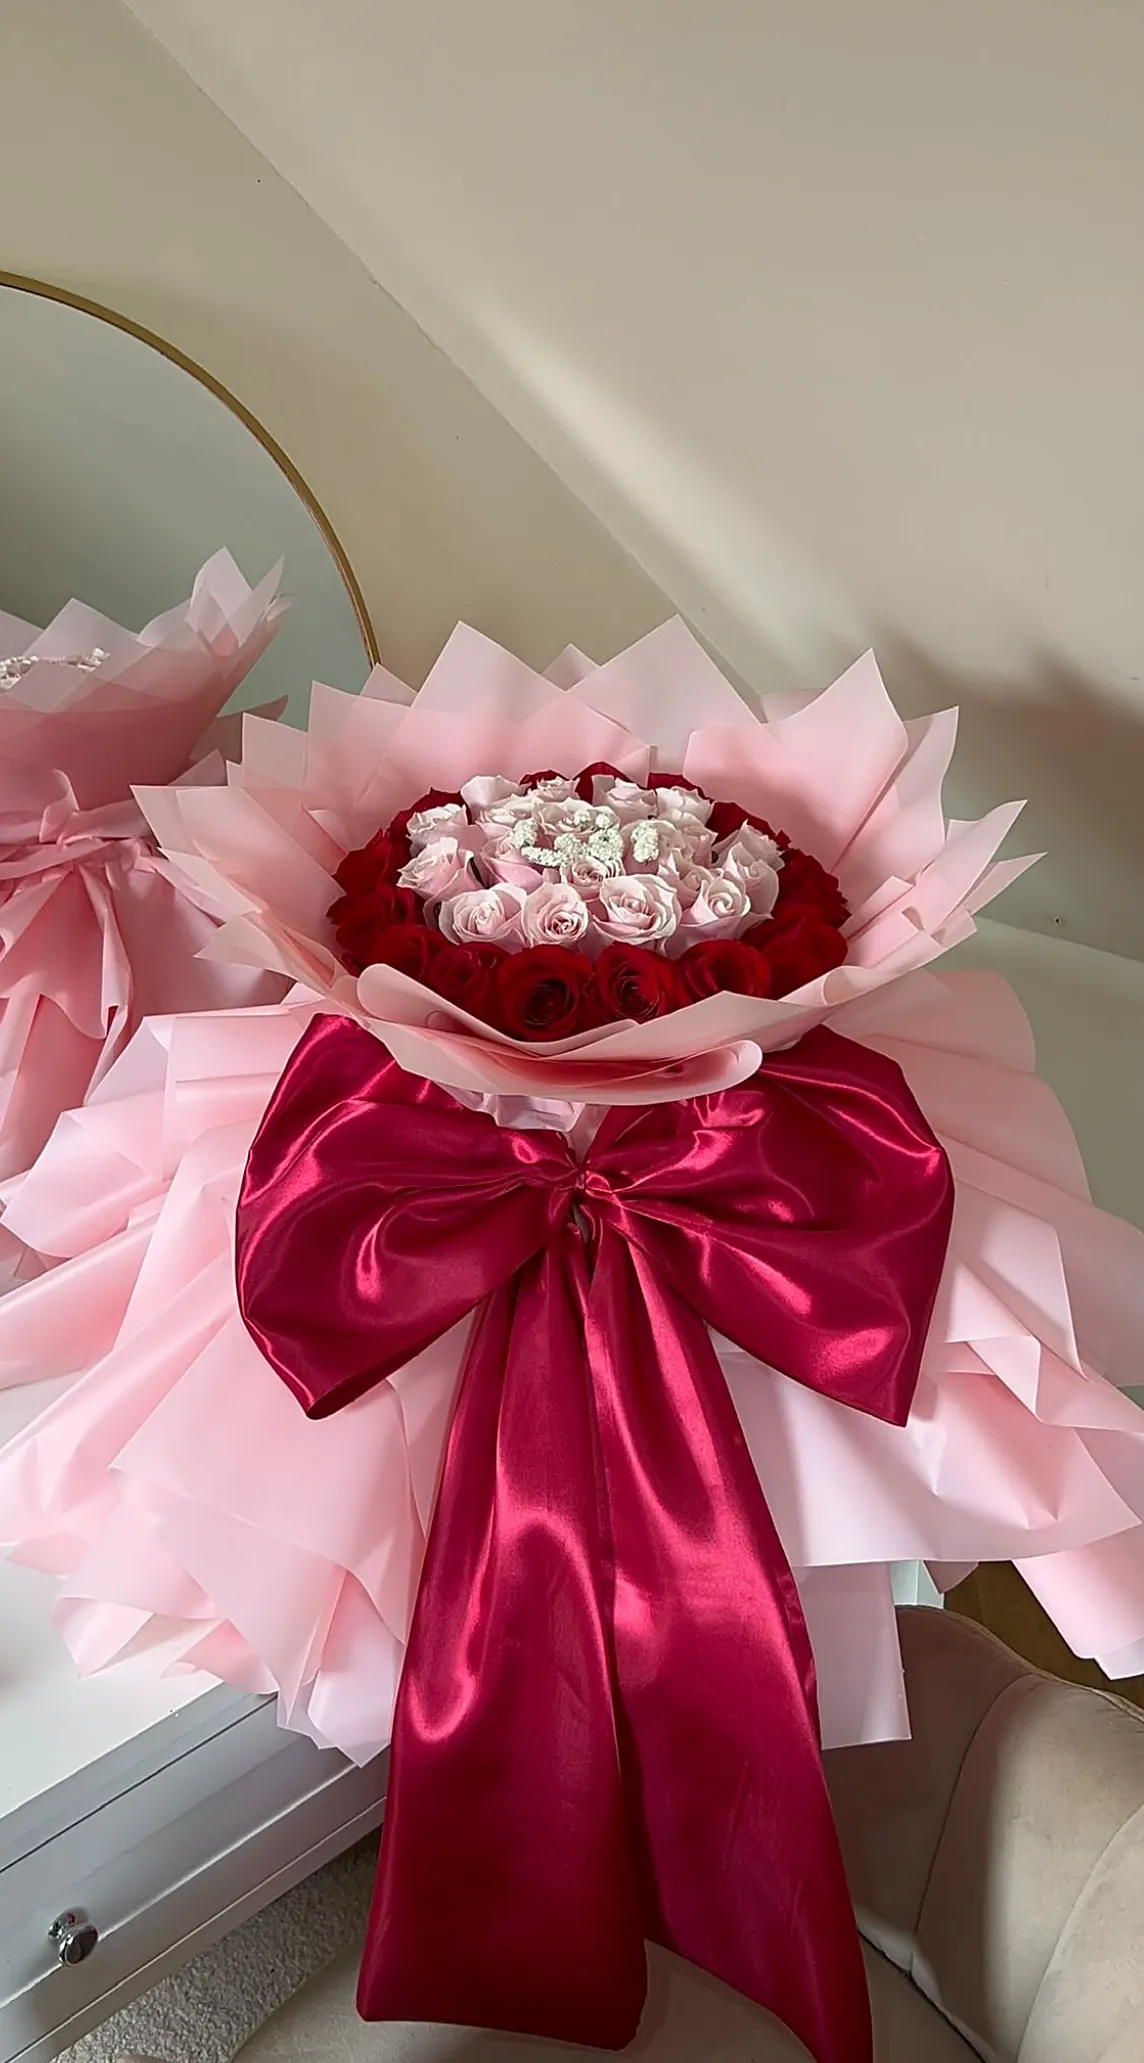
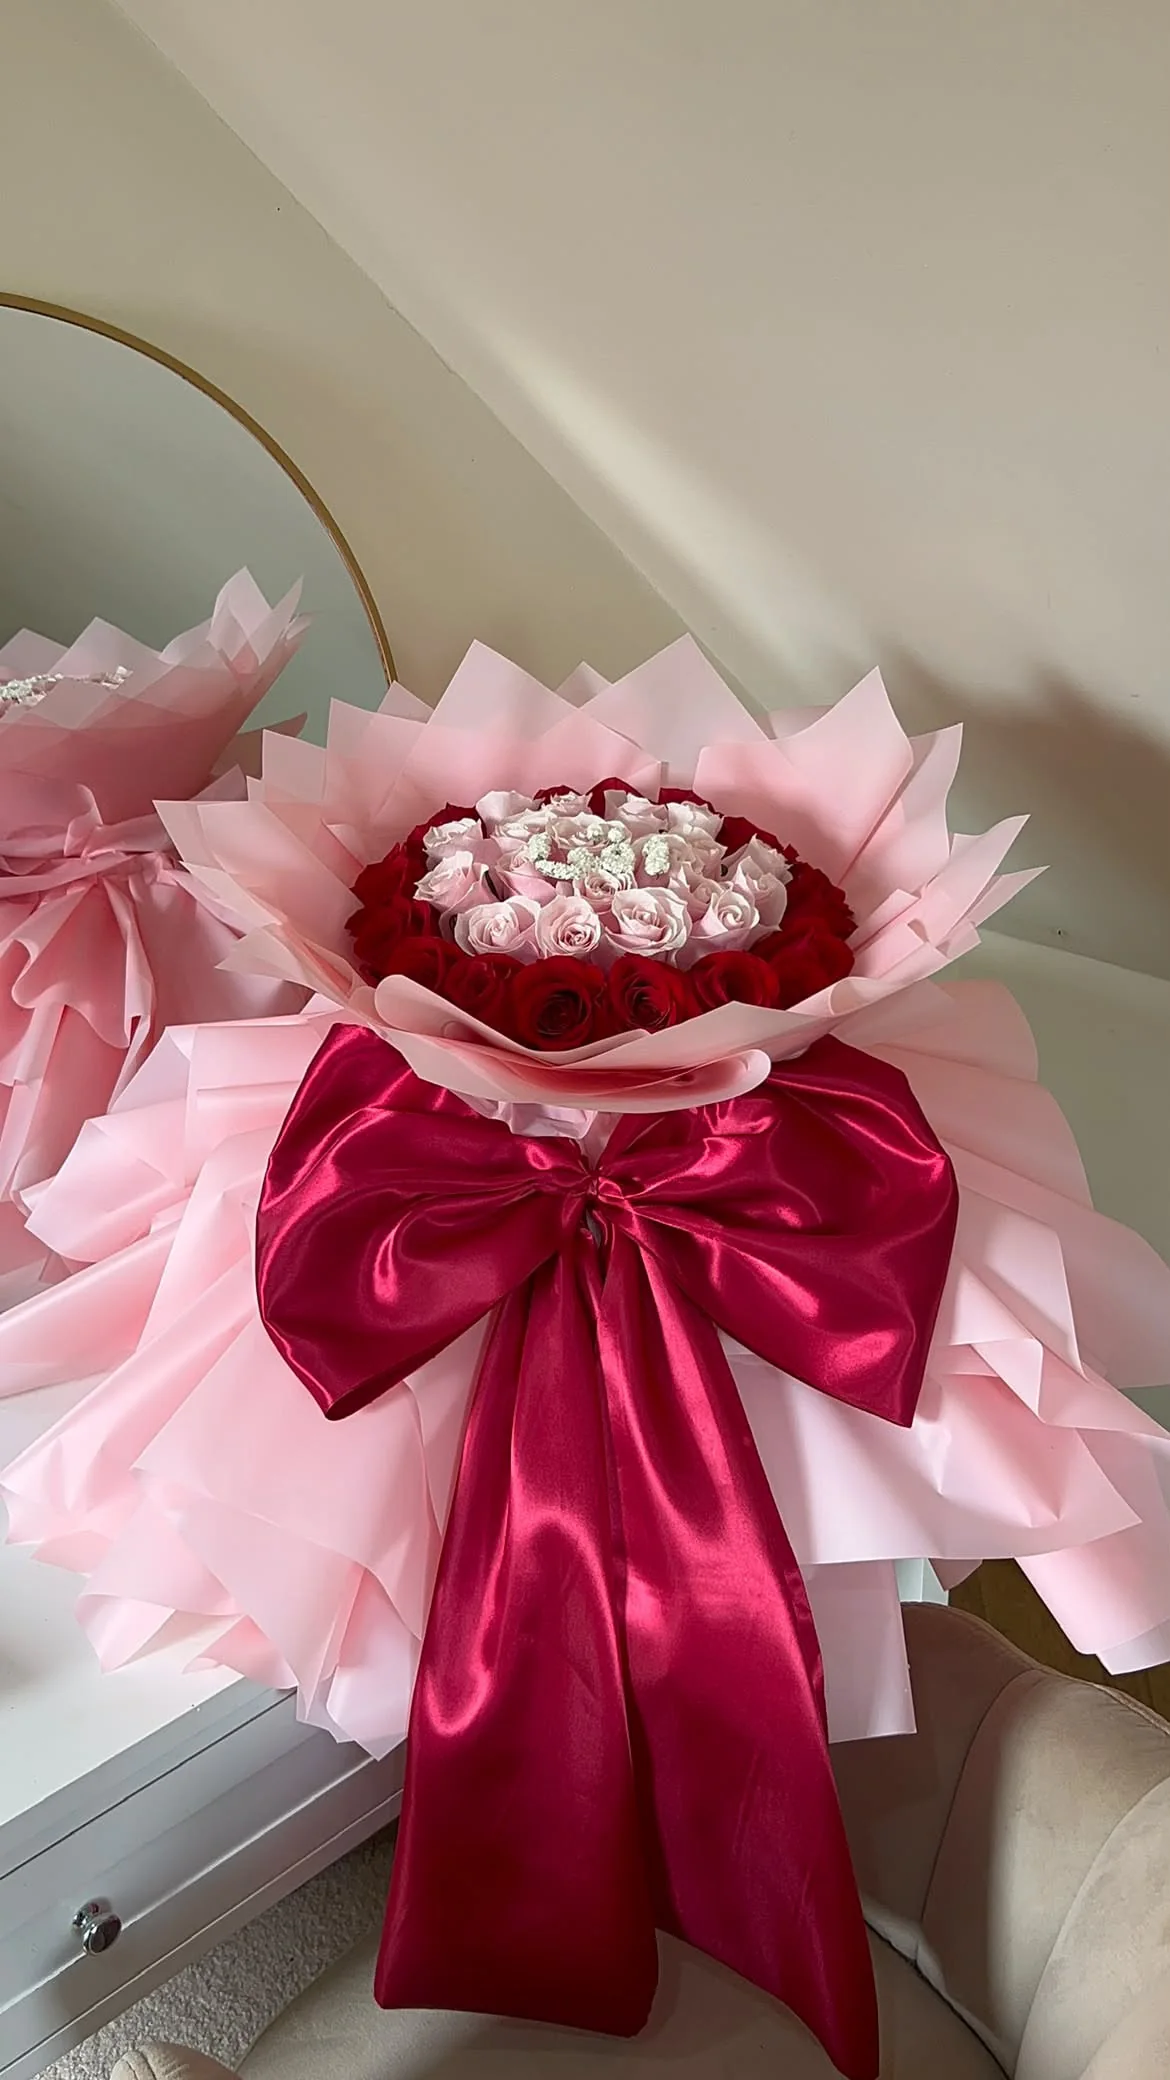
The Bespoke Bouquets: her original photos in the shop, two new items
The shop photographs are now her full-size originals instead of crops
from screenshots, so every bouquet is sharp. Two more bouquets from her
price list join the shop: Initial & Heart (£70) and Classic Red Roses
(£50). Text blocks get a backing in their section's colour so the
floating petals pass behind words without showing through them.

Claude-Session: https://claude.ai/code/session_01SrWHoie3RUSVxRUX9dy37k

diff --git a/bespoke-bouquets/script.js b/bespoke-bouquets/script.js
@@ -64,7 +64,7 @@ const REVIEWS = {
    -------------------------------------------------------------------- */
 const CATALOGUE = [
   { id: 'skirt', name: 'The Skirt Bouquet', price: 145, cats: ['signature', 'personalised'], badge: 'Showstopper',
-    imgs: ['skirt-bouquet', 'skirt-bouquet-wide'], alt: 'Red and blush roses in layered pink wrap with an oversized crimson satin bow',
+    imgs: ['skirt-bouquet'], alt: 'Red and blush roses in layered pink wrap with an oversized crimson satin bow',
     short: 'Red & blush roses, a layered skirt wrap and an oversized satin bow.',
     desc: 'The showstopper. Red and blush roses framed in layer upon layer of pink wrap, finished with an oversized satin bow that falls like a ball-gown skirt. Pearl lettering can be added to the centre.',
     options: ['wrap', 'bow', 'lettering', 'card'] },
@@ -74,17 +74,27 @@ const CATALOGUE = [
     desc: 'Soft pink roses, scented white stocks, eucalyptus and pistachio leaf, arranged standing in a crisp white gift bag and tied with satin ribbon — beautiful from every side.',
     options: ['ribbon', 'card'] },
   { id: 'birthday', name: 'Birthday Banner Bouquet', price: 70, cats: ['personalised', 'signature'], badge: 'Personalised',
-    imgs: ['birthday-blush'], alt: 'Pink carnations and lilac roses with a personalised birthday banner, in a white gift bag',
+    imgs: ['birthday-banner'], alt: 'Pink carnations and lilac roses with a personalised birthday banner, in a white gift bag',
     short: 'Carnations, lilac roses and a personalised satin banner.',
     desc: 'Pink carnations, lilac roses and clouds of gypsophila in white wrap, with a satin banner across the top carrying any name, age or message.',
     options: ['banner', 'ribbon', 'card'] },
+  { id: 'initial', name: 'Initial & Heart Bouquet', price: 70, cats: ['personalised'], badge: 'Personalised',
+    imgs: ['initial-heart'], alt: 'Red roses in black wrap with an initial and a heart in white gypsophila, edged with pearls',
+    short: 'Red roses with an initial and heart in gypsophila.',
+    desc: 'Deep red roses framed in gypsophila and a string of pearls, with an initial and a little heart picked out in white — wrapped in black with a crimson satin ribbon.',
+    options: ['lettering', 'ribbon', 'card'] },
+  { id: 'reds', name: 'Classic Red Roses', price: 50, cats: ['signature'],
+    imgs: ['classic-reds'], alt: 'Red roses with gypsophila and a pearl trim in white wrap, in a white gift bag',
+    short: 'Red roses, gypsophila and pearls in white wrap.',
+    desc: 'Red roses with touches of gypsophila and a pearl-edged collar, wrapped in white and standing in a gift bag with a crimson ribbon. Timeless, and perfect for any day.',
+    options: ['ribbon', 'card'] },
 ];
 
 const OPTION_DEFS = {
   wrap:   { label: 'Wrap colour', type: 'swatch', values: [['Blush pink', '#f7c3cd'], ['White', '#ffffff'], ['Black', '#1f1418'], ['Ivory', '#f4ecdf']] },
   bow:    { label: 'Satin bow', type: 'swatch', values: [['Crimson', '#a3123b'], ['Blush', '#f2a7b8'], ['Black', '#1f1418'], ['Ivory', '#f4ecdf']] },
   ribbon: { label: 'Ribbon colour', type: 'swatch', values: [['Pink', '#ef93ad'], ['Crimson', '#a3123b'], ['White', '#ffffff'], ['Black', '#1f1418']] },
-  lettering: { label: 'Pearl lettering', type: 'text', max: 14, optional: true, placeholder: 'e.g. Wifey, V & P, 21' },
+  lettering: { label: 'Initial or lettering', type: 'text', max: 14, optional: true, placeholder: 'e.g. R, V & P, 21' },
   banner: { label: 'Banner wording', type: 'text', max: 40, placeholder: 'e.g. Happy Birthday Matthew' },
   card:   { label: 'Message card', type: 'textarea', max: 160, optional: true, placeholder: 'A few words for the card…' }
 };

diff --git a/bespoke-bouquets/index.html b/bespoke-bouquets/index.html
@@ -158,8 +158,8 @@
     <p class="hero-facts dots"><i></i>Birthdays <span>·</span> Love <span>·</span> Bridal <span>·</span> Gifts<i></i></p>
   </div>
   <div class="hero-strip">
-    <img src="/assets/bespoke/photos/blush-stocks.webp" alt="Pink roses and white stocks in a white gift bag" width="1144" height="2063">
-    <img src="/assets/bespoke/photos/skirt-bouquet.webp" alt="Red and blush roses with an oversized crimson satin bow" width="1144" height="2063">
+    <img src="/assets/bespoke/photos/blush-stocks.webp" alt="Pink roses and white stocks in a white gift bag" width="1170" height="2080">
+    <img src="/assets/bespoke/photos/skirt-bouquet.webp" alt="Red and blush roses with an oversized crimson satin bow" width="1170" height="2080">
     <img src="/assets/bespoke/photos/hundred-roses.webp" alt="One hundred red roses lettered in pearls" width="1200" height="1494">
   </div>
 </section>
@@ -172,7 +172,7 @@
         <p class="label">The shop</p>
         <h2>Order <em>online</em></h2>
       </div>
-      <p>Choose your bouquet, add your colours and message, and pick collection or delivery.</p>
+      <p>Five favourites, ready to order online. Add your colours and message, then choose collection or delivery.</p>
     </div>
     <div class="grid" id="grid" aria-live="polite"></div>
     <a class="more-band" href="/bespoke-bouquets/portfolio">

diff --git a/bespoke-bouquets/style.css b/bespoke-bouquets/style.css
@@ -557,3 +557,13 @@ details[open] .pm::after{transform:rotate(0)}
 .wrap{position:relative;z-index:2}
 
 .co-summary .sum-row.soft{display:none}
+
+/* Petals hide behind words: text blocks get an invisible backing in their own
+   section's colour, so a petal slips out of sight behind copy and only shows
+   in the open space around it. */
+body{--bg:var(--cream)}
+.sec.tint,.bridal{--bg:var(--blush)}
+.ftr{--bg:var(--plate)}
+.pf-hero{--bg:var(--plate)}
+.sec-head>*,.pcard-body,.more-band>*,.occ div,.steps li,.split-copy>*,.review,.deliv,.contact,.care-list li,.faq-list,.note,.two-col h2,.two-col .label,.ftr-grid>div,.ftr-bottom>*,.pf-tile figcaption,.pf-cta>*,.pf-hero .wrap>*{background:var(--bg)}
+.hero .lead,.hero-title,.hero-facts,.hero-place,.hero-role{background:radial-gradient(closest-side,rgba(255,236,238,.92),rgba(255,236,238,.92) 80%,rgba(255,236,238,0))}

diff --git a/PROJECT-NOTES.md b/PROJECT-NOTES.md
@@ -1573,3 +1573,10 @@ her SVG logo, "FLORIST" in rose caps, a line-drawn floral ornament
 an EB Garamond italic second line, Garamond body copy, then a full-bleed strip
 of three photos. Fonts are Gilda Display + EB Garamond only. Buttons are
 rectangular, Garamond caps tracked .24em, filled crimson or outlined.
+
+**Shop photos are her originals now (1170x2080), not screenshot crops.** Five
+priced items, all from her own DMs: Skirt Bouquet £145, Blush Garden Gift Bag
+£95, Birthday Banner £70, Initial & Heart (black wrap, "R ♥") £70, Classic Red
+Roses (white wrap) £50. Text blocks carry `background:var(--bg)` in their
+section's colour so the floating petals slip behind copy instead of showing
+through the letters; a new section with its own colour must set `--bg`.
